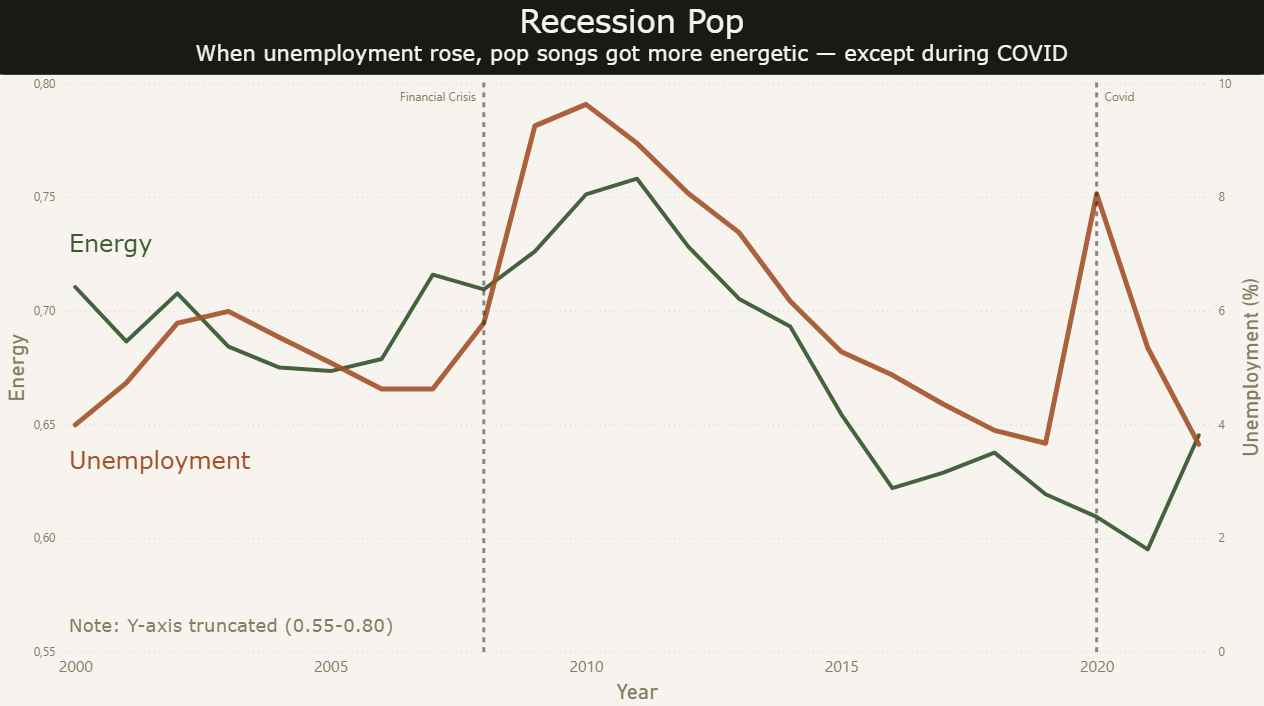
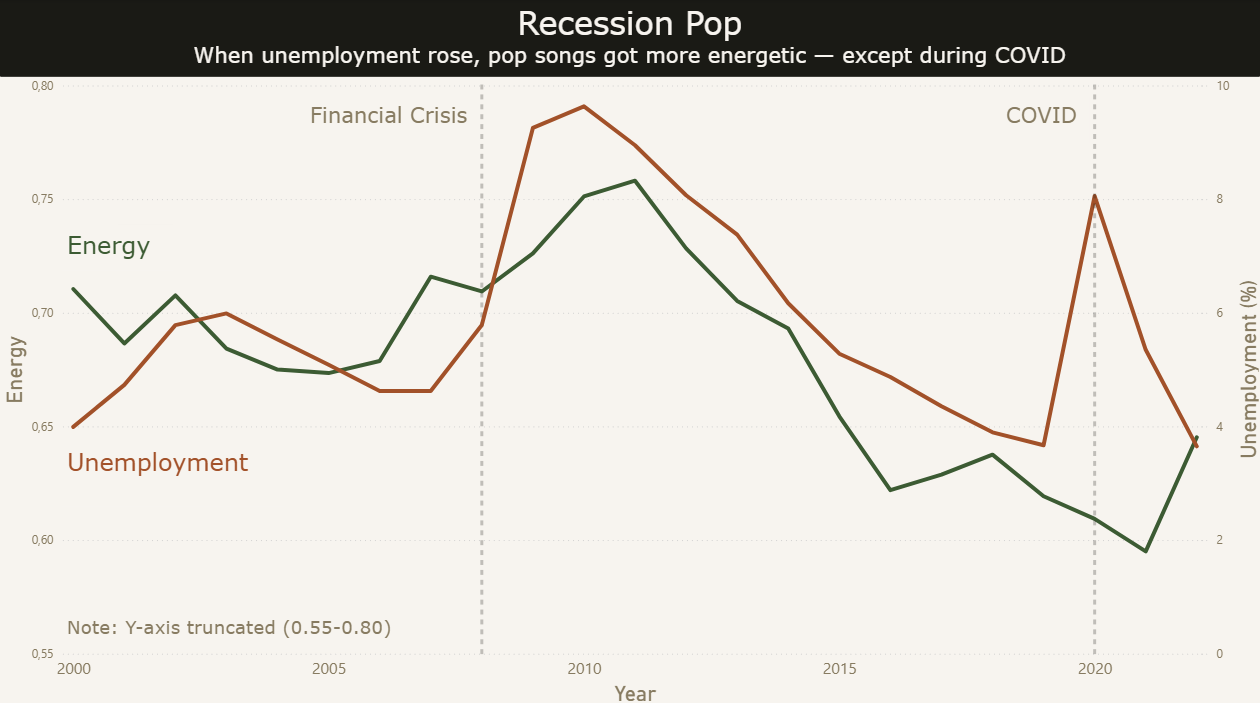
Update

diff --git a/README.md b/README.md
@@ -1,4 +1,4 @@
-# Recession Pop: Music in Times of Economic Crisis
+# Recession Pop
 
 ## Project Snapshot
 
@@ -8,31 +8,45 @@
 - **Focus:** music audio features · unemployment · economic crises  
 - **Output:** correlation analysis, lag analysis, interactive Power BI dashboard
 
-Do economic crises change the sound of popular music?
+## 🔑 Key Takeaway
 
-> A data analysis project combining music data with macroeconomic indicators to explore how culture reacts to economic pressure.
+The data supports part of the “Recession Pop” idea.
 
-I first came across the idea of “Recession Pop”, the claim that music became more energetic during the financial crisis. 
+From 2000 to 2022, higher US unemployment was associated with higher song energy and lower danceability in Billboard Hot 100 songs. The strongest energy relationship appears with a one-year delay.
 
-This made me question whether the relationship between economic conditions and music actually holds in a measurable way, and led to this analysis.
+COVID-19 breaks the pattern, suggesting that pandemic-era music consumption may have worked differently from earlier economic crises.
 
-## 📸 Key Visuals
+## 🧭 Overview
 
-### Energy vs Unemployment, including the COVID anomaly
+“Recession Pop” describes the idea that popular music becomes more energetic during economic downturns.
+
+This project tests that claim using Billboard Hot 100 data, Spotify audio features, and US macroeconomic indicators.
+
+The analysis focuses on whether unemployment is linked to changes in energy, danceability, and valence, and whether the relationship appears immediately or with a delay.
+
+## 📸 Dashboard Preview
+
 ![Energy vs Unemployment](./visuals/01_energy_vs_unemployment.png)
 
-### Lag Analysis
+![Correlation with Unemployment](./visuals/02_correlation_with_unemployment.png)
+
 ![Lag Analysis](./visuals/03_lag_analysis.png)
+
+![Top Energetic Songs](./visuals/04_energy_top_songs.png)
+
+![Lowest Energy Songs](./visuals/05_energy_low_songs.png)
 
 ## 🎯 Research Question
 
 Do economic conditions in the United States influence musical characteristics, and if so, how?
 
-## 🧠 Background
+## 🧠 Analytical Framing
 
-“Recession Pop” describes a wave of energetic, dance-oriented music that emerged during the late 2000s financial crisis.
+The project does not assume that economic crises directly cause musical change.
 
-This project explores whether this phenomenon can be observed statistically using Billboard Hot 100 data and Spotify audio features, and whether a similar pattern appeared during COVID-19.
+Instead, it tests whether macroeconomic pressure and popular music features move together over time.
+
+The analysis is exploratory: it looks for measurable patterns, delayed relationships, and exceptions such as COVID-19.
 
 ## 📊 Data Sources
 
@@ -66,78 +80,50 @@ Main datasets:
 
 ## 📈 Key Results
 
-The analysis reveals a consistent pattern:
+The analysis shows a clear pattern between unemployment and selected audio features.
 
-During economic downturns, music becomes more energetic while losing danceability.
+| Feature | r | p-value | Interpretation |
+|---|---:|---:|---|
+| Energy | +0.57 | 0.0047 | Rises with unemployment |
+| Danceability | -0.69 | 0.0004 | Falls with unemployment |
+| Valence | +0.05 | 0.7899 | No meaningful relationship |
 
-At the same time, the data indicates that music does not lead economic changes, it follows them.
+**Lag analysis**  
+The strongest energy correlation appears with a one-year delay (r = 0.63), suggesting that music follows economic pressure rather than reacting immediately.
 
-| Feature       | r     | p-value | Interpretation              |
-|---------------|-------|---------|-----------------------------|
-| Energy        | +0.57 | 0.0047  | Rises with unemployment     |
-| Danceability  | -0.68 | 0.0004  | Falls with unemployment     |
-| Valence       | +0.06 | 0.79    | No meaningful relationship  |
+**Robustness check**  
+Spearman correlation gives a similar result (ρ = 0.53), reducing the risk that the finding is driven only by outliers or strict linear assumptions.
 
-**Lag Analysis (Energy)**  
-The strongest correlation appears one year after the economic shock *(r = 0.63, lag +1)*, suggesting that music reacts to economic conditions with a short delay rather than immediately.
-
-**Robustness**  
-To check whether this result is stable, I also used Spearman correlation.
-
-The result remains similar (ρ = 0.53), which suggests that the relationship is not driven by outliers or strict linear assumptions.
-
-### COVID-19
-
-No clear “Recession Pop” effect was observed during COVID-19, suggesting that structural changes in music consumption may have altered the relationship.
-
-Possible explanations:
-- Increased digital media consumption  
-- Social isolation reducing collective escapism  
-- A shift toward more introspective or “negative escapism”, where listeners turn to slower or emotionally heavier music instead of energetic, dance-oriented tracks
+**COVID-19 exception**  
+No clear “Recession Pop” effect appears during COVID-19. This may reflect changes in listening behavior, social isolation, or a shift toward more introspective music.
 
 ## 🔬 Statistical Note
 
-The sample consists of 23 yearly observations (2000–2022).  
-Given the relatively small sample size, the analysis should be interpreted as exploratory rather than conclusive.
+The analysis uses 23 yearly observations from 2000 to 2022, so the results should be interpreted as exploratory rather than conclusive.
 
-The starting point (year 2000) was chosen pragmatically to focus on recent developments and ensure consistent data availability.  
-To assess whether this choice influenced the results, the analysis was repeated starting from 1991 (earliest available macroeconomic data).  
-The overall pattern remains similar, suggesting that the findings are not driven by the selected time window.
+Pearson correlation is used for linear association, while Spearman correlation is used as a robustness check.
 
-To reduce the risk of confirmation bias, multiple features (Energy, Danceability, Valence) were analyzed.  
-Since not all variables show the same relationship, the results are less likely to reflect a single predefined narrative.
+The analysis was also repeated from 1991, the earliest available macroeconomic year. The overall pattern remained similar.
 
-Spotify audio features are based on proprietary algorithms and should be interpreted with caution.  
-External research suggests that “Energy” correlates relatively well with perceived intensity, while “Danceability” appears less consistent.  
-For this reason, the interpretation focuses primarily on Energy, while Danceability is treated more cautiously.
-
-Pearson correlation is used as a measure of linear association, while Spearman correlation serves as a robustness check.  
-The similarity between both measures suggests that the results are not driven by outliers or strict linear assumptions.
+Spotify audio features are proprietary algorithmic estimates. Energy is interpreted with more confidence than danceability, based on the validity discussion documented in `DATA_SOURCES.md`.
 
 ## ⚠ Limitations
 
-- Billboard reflects chart success, not actual listening behavior  
-- Spotify audio features for older songs are retroactively calculated  
-- Limited sample size (23 data points)  
-- Correlation does not imply causation  
+- Billboard reflects chart success, not actual listening behavior
+- Spotify audio features are proprietary algorithmic estimates
+- Audio features for older songs may be retroactively calculated
+- The sample size is limited to yearly observations
+- Correlation does not imply causation 
 
 ## 🧹 Data Cleaning
 
-- 172 karaoke entries removed (incorrect audio features)  
-- Artist name formatting standardized  
+- 172 karaoke entries removed due to incorrect audio features  
+- Artist name formatting standardized
 
 ## 🛠 Tools
 
 - Python (Pandas, SciPy)  
 - Power BI  
-
-## 💡 Key Insight
-
-Music does not exist in isolation.
-
-The results suggest that economic pressure shapes music, but not immediately.
-
-Instead, cultural responses seem to build up over time, reflecting shared experiences.
 
 ## 🤖 Use of AI (Transparency)
 
